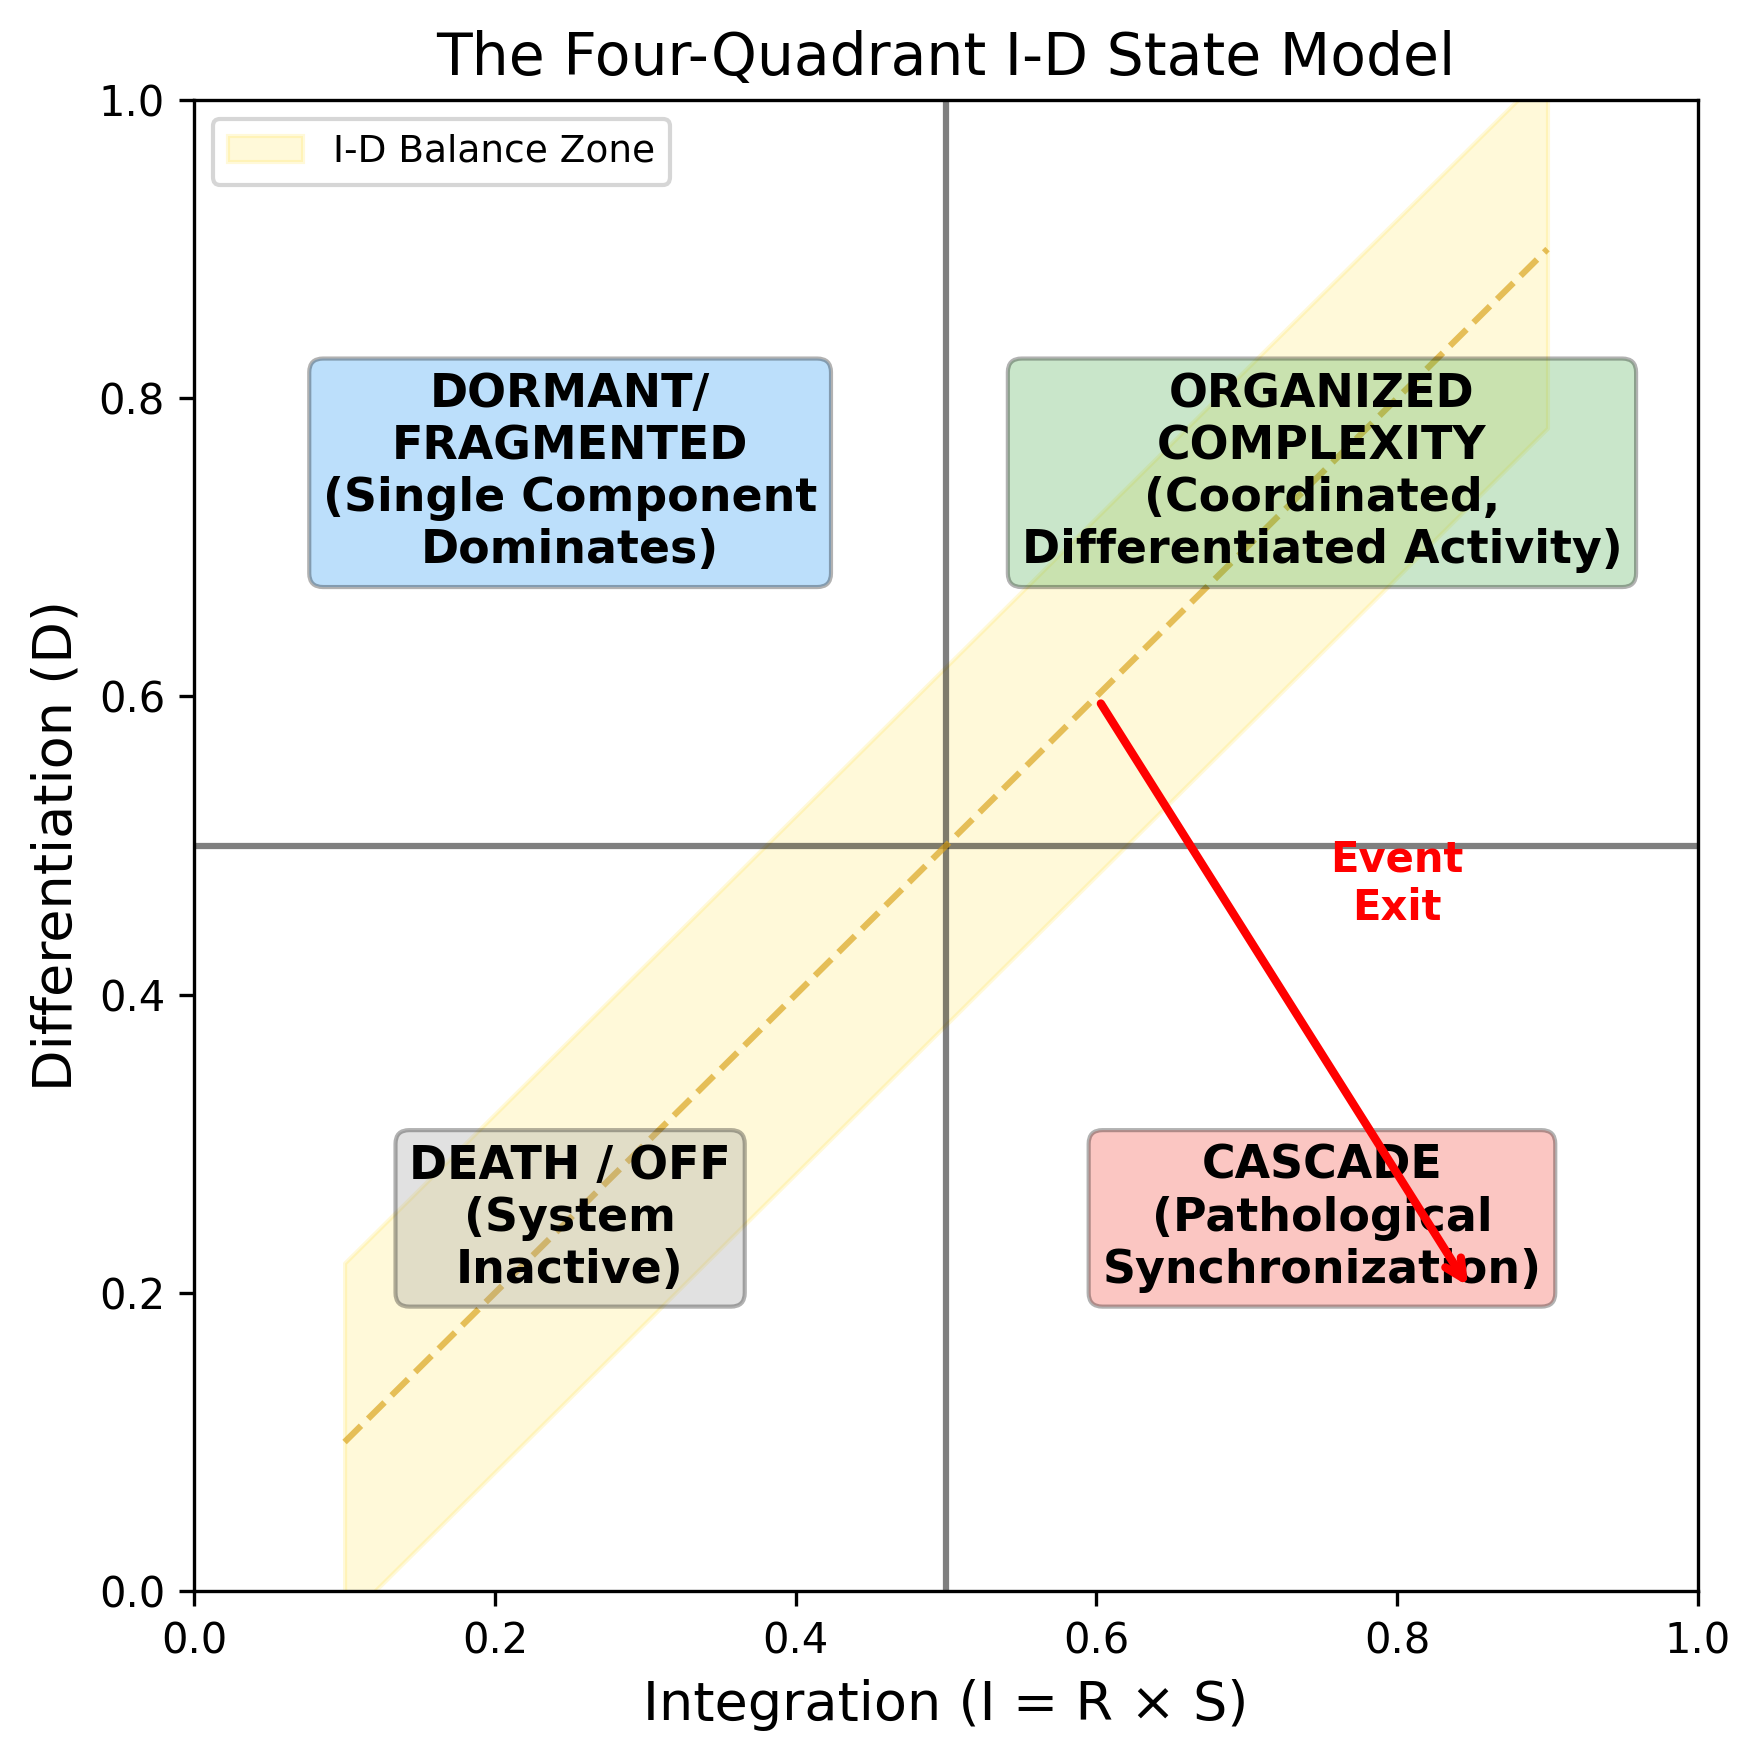
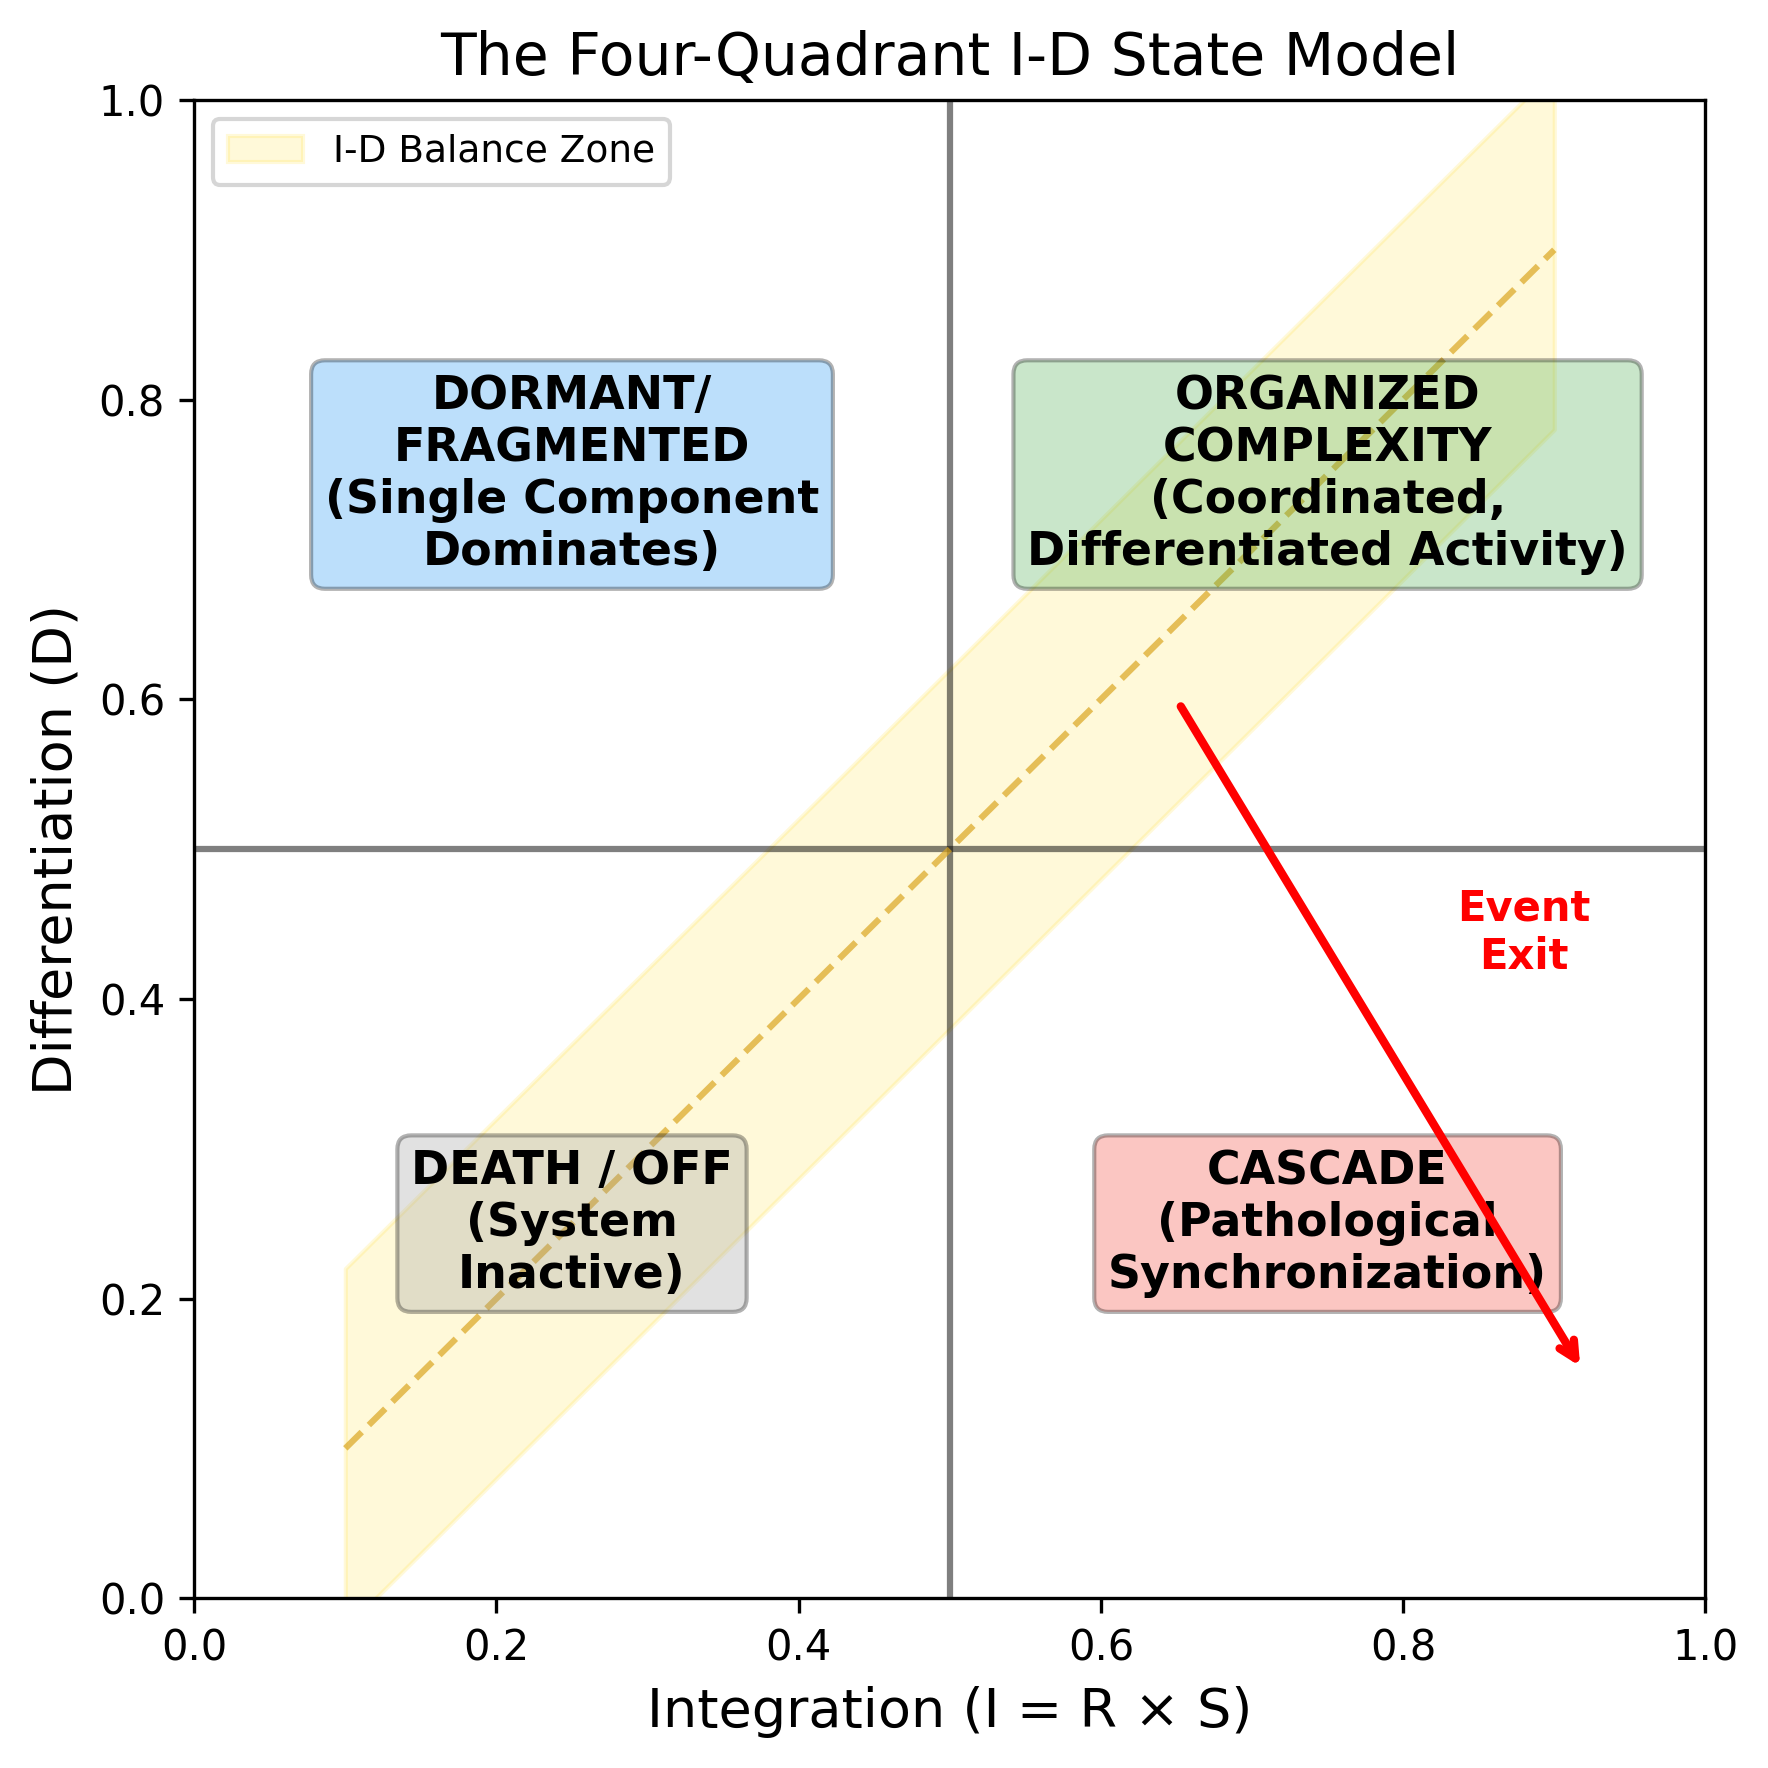
Fix table overflow, figure overlap, remove zip, set date format
- Tables I, II, VI, VII: table* with [!htbp] (span both columns, inline)
- Tables III, IV, V: table with [!htbp] (single column, inline)
- Fig 1: shift Event Exit arrow/label right to clear CASCADE text
- Remove zip code from affiliation
- Date: April 2026 (no parenthesized \today)

diff --git a/det-chaos-v2.tex b/det-chaos-v2.tex
@@ -11,8 +11,8 @@
 \author{Nathan M. Thornhill}
 \email{research@nathanthornhill.com}
 \homepage{https://nathanthornhill.com}
-\affiliation{Independent Researcher, Fort Wayne, Indiana 46802, USA}
-\date{\today}
+\affiliation{Independent Researcher, Fort Wayne, Indiana, USA}
+\date{April 2026}
 
 \begin{abstract}
 Complex systems across disparate substrates share a common failure mode: the breakdown of balance between integration and differentiation. This paper introduces the Dynamic Existence Threshold (DET), a framework in which system state is characterized by two measurable quantities---integration ($I$), capturing coordinated multi-component coupling, and differentiation ($D$), capturing divergence from uniformity. The $I$--$D$ plane admits four theoretical states---dormant/fragmented (low $I$, high $D$), organized complexity (high $I$, high $D$), pathological cascade (high $I$, low $D$), and system death (low $I$, low $D$)---of which the present proxy metrics access primarily the dormant-to-cascade axis. Healthy baseline function corresponds to moderate values of both $I$ and $D$ at the center of this axis. The DET predicts that critical events correspond to exits from the $I$--$D$ balance zone and that approach to such exits produces measurable early warning signals. These predictions are tested across three domains---financial markets (6,785 trading days, 26 cascade events), space weather (9,802 days, 51 storm days), and human EEG (50 subjects, 57,212 epochs, Wake vs.\ N3 deep sleep)---using a five-layer measurement architecture with zero-parameter tuning between domains. Five tests confirm the framework: (1) events cluster at $I$--$D$ extremes; (2) events exit the balance zone faster than normal state changes ($p = 0.0001$); (3) rising variance of $|I - D|$ provides early warning 5--30 days before financial events and 5--10 days before space weather events (2.0$\times$ elevation, $p < 0.001$); (4) exit velocity discriminates events from normal with area under the curve (AUC) 0.692--0.843; and (5) in EEG, simple summation anti-predicts brain state (AUC 0.416) while the coupling metric $R \times S$ achieves AUC 0.909 (95\% CI [0.904, 0.913]), demonstrating that the framework captures multi-scale coordination rather than mere magnitude.
@@ -32,7 +32,7 @@ The present work synthesizes these threads. IIT's $\Phi$ remains intractable for
 
 The central hypothesis is straightforward. Integration ($I$) measures the degree of coordinated coupling among system components. Differentiation ($D$) measures the degree to which the system's activity profile diverges from uniformity. These two quantities define a phase space with four canonical states (Fig.~\ref{fig:quadrant}):
 
-\begin{table}[!htbp]
+\begin{table*}[!htbp]
 \caption{Four-state model of the $I$--$D$ phase space.}
 \begin{ruledtabular}
 \begin{tabular}{llll}
@@ -43,7 +43,7 @@ Cascade/seizure/crash & High & Low & Pathological synchronization \\
 Death/off & Low & Low & System inactive \\
 \end{tabular}
 \end{ruledtabular}
-\end{table}
+\end{table*}
 
 The four states represent a theoretical taxonomy of the $I$--$D$ plane. Because the chosen proxy metrics are entropy-coupled (Section~3.6.4), empirical observations are largely constrained to the CASCADE--RECOVERY axis (high-$I$/low-$D$ to low-$I$/high-$D$). The Organized complexity and Death/off quadrants would require entropy-decoupled metrics---such as network-topology measures or formal partial information decomposition---to access reliably. The taxonomy remains useful as a conceptual map even when the accessible region is a subset of the full plane.
 
@@ -66,7 +66,7 @@ This paper tests five predictions derived from the DET hypothesis across three d
 
 To enable cross-domain comparison without parameter tuning, each domain is decomposed into five measurement layers representing distinct scales or modalities of system activity. The five-layer decomposition follows a principle of hierarchical coverage: layers span from the most local or fundamental process ($L_0$) to the most global or emergent indicator ($L_4$). Table~\ref{tab:layers} specifies the mapping.
 
-\begin{table}[!htbp]
+\begin{table*}[!htbp]
 \caption{\label{tab:layers}Five-layer architecture across domains.}
 \begin{ruledtabular}
 \begin{tabular}{llll}
@@ -78,7 +78,7 @@ $L_3$ & Beta (13--30 Hz) & Planetary K-index (Kp) & VIX implied volatility \\
 $L_4$ & Gamma (30--45 Hz) & Auroral Electrojet (AE) index & Flight-to-safety flows \\
 \end{tabular}
 \end{ruledtabular}
-\end{table}
+\end{table*}
 
 The EEG layers correspond to standard clinical frequency bands~\cite{berry2017,oppenheim1997}. Gamma power was computed with awareness of potential electromyographic (EMG) contamination artifacts at frequencies above 30~Hz~\cite{muthukumaraswamy2013}; however, the framework's reliance on relative coupling rather than absolute power mitigates this concern. Space weather layers span the sun--magnetosphere coupling chain from solar surface (F10.7) through interplanetary medium (solar wind dynamic pressure) to magnetospheric response (Dst, Kp, AE), using NASA OMNI2 data~\cite{papitashvili2020}. Financial layers span from individual equity stress through sector-level coherence to market-wide measures of volatility and risk appetite~\cite{forbes2002}. \textbf{$L_4$ (flight-to-safety)} is the mean $z$-score of safe-haven assets (Treasury bonds, gold, US dollar), following the same $z$-score protocol used for all other layers across all domains. An earlier formulation used a conjunction gate conditioning haven activation on concurrent equity stress; ablation testing (Section~\ref{sec:l4ablation}) demonstrated that this additional logic did not improve classification performance (AUC 0.870 without $L_4$ vs.\ 0.868 with the conjunction gate), so the simpler formulation is used here to maintain consistency with the zero-tuning design.
 
@@ -379,7 +379,7 @@ Entropy coupling does not, however, invalidate the empirical contributions. Diff
 
 To address the concern that all results may reflect in-sample overfitting, a strict temporal split was applied to the financial and space weather domains. For financial markets, the first 3,964 days (pre-2015) served as the training set and the remaining 2,821 days (2015--2024) as the held-out test set. For space weather, the split was at 2010. All $z$-score normalization parameters (means, standard deviations) were learned exclusively from the training set and applied unchanged to the test set.
 
-\begin{table}[!htbp]
+\begin{table*}[!htbp]
 \caption{\label{tab:oos}Out-of-sample validation: AUC on held-out test set ($z$-score parameters from training set only).}
 \begin{ruledtabular}
 \begin{tabular}{lllll}
@@ -394,7 +394,7 @@ Space ($R \times S$) & $|I{-}D|$ & 0.568 & 0.656 & $+$0.088 \\
 Space (Sum) & $|I{-}D|$ & 0.791 & 0.838 & $+$0.047 \\
 \end{tabular}
 \end{ruledtabular}
-\end{table}
+\end{table*}
 
 All metrics retain discriminative power on the held-out period, with exit velocity AUC dropping by at most 0.09 (space Sum) and $|I{-}D|$ AUC actually \emph{improving} on the test set in all four cases. The improvement on $|I{-}D|$ likely reflects that the post-split periods include higher-volatility regimes (2020 COVID crash, 2015--2016 market turbulence) where the balance metric separates events more cleanly. These results confirm that the DET framework does not overfit to the training period and generalizes to unseen data without recalibration.
 
@@ -402,7 +402,7 @@ All metrics retain discriminative power on the held-out period, with exit veloci
 
 To assess whether the DET framework depends critically on the five-layer architecture, we systematically varied the number of layers $N \in \{3, 4, 5, 6, 8\}$ across all three domains. For $N < 5$, adjacent layers were merged by averaging their $z$-scored activations. For $N > 5$, existing layers were split into finer components from the same raw data: delta sub-bands in EEG, solar wind velocity separation in space weather, and VIX momentum or haven disaggregation in financial markets. All downstream computations ($R$, $S$, $D$, $I$, balance zone definitions) used identical formulas with only $N$ adjusted.
 
-\begin{table}[!htbp]
+\begin{table*}[!htbp]
 \caption{\label{tab:layers_sensitivity}Layer sensitivity: $I$ ($R \times S$) AUC for event/state discrimination across layer counts. EEG values from the five-subject pilot; the 50-subject scale-up yields AUC 0.909 at $N=5$ (Table~IV).}
 \begin{ruledtabular}
 \begin{tabular}{lllll}
@@ -414,7 +414,7 @@ $N$ & Financial & Space & EEG (Wake vs.\ N3) & EEG Sum \\
 8 & 0.706 & 0.844 & \textbf{0.921} & 0.287 \\
 \end{tabular}
 \end{ruledtabular}
-\end{table}
+\end{table*}
 
 Three findings emerge (Fig.~\ref{fig:layer_sensitivity}). First, the framework is robust to layer count: adjacent values ($N = 4$ and $N = 6$) produce AUC within 10\% of the $N = 5$ baseline across all domains, with space weather and EEG actually improving at $N = 6$. Second, performance degrades smoothly at $N = 3$ (insufficient hierarchical depth for meaningful integration), consistent with the theoretical requirement that integration needs multiple engaged layers. Notably, $N = 3$ produces the highest balance zone ratio in EEG (46$\times$) yet the worst AUC (0.669): with only three layers, the balance zone becomes so narrow that nearly all N3 epochs are excluded, inflating the ratio while providing insufficient resolution for robust classification. Third, $N = 8$ offers no improvement over $N = 6$, suggesting diminishing returns from over-decomposition.
 

diff --git a/compute/generate_paper_figures.py b/compute/generate_paper_figures.py
@@ -114,10 +114,10 @@ def fig1_quadrant_model():
                      label='I-D Balance Zone')
     ax.plot(x, x, '--', color='goldenrod', linewidth=1.5, alpha=0.7)
     
-    # Arrow: cascade exit
-    ax.annotate('', xy=(0.85, 0.2), xytext=(0.6, 0.6),
+    # Arrow: cascade exit (shifted right to avoid overlapping CASCADE label)
+    ax.annotate('', xy=(0.92, 0.15), xytext=(0.65, 0.6),
                 arrowprops=dict(arrowstyle='->', color='red', lw=2))
-    ax.text(0.80, 0.45, 'Event\nExit', fontsize=10, color='red', ha='center', fontweight='bold')
+    ax.text(0.88, 0.42, 'Event\nExit', fontsize=10, color='red', ha='center', fontweight='bold')
     
     ax.set_xlabel('Integration (I = R × S)', fontsize=13)
     ax.set_ylabel('Differentiation (D)', fontsize=13)
@@ -295,7 +295,7 @@ def fig4_eeg_stages():
         # Add ratio annotations
         for i, (w, n) in enumerate(zip(wake_pcts, n3_pcts)):
             if n > 0:
-                ax.text(i, max(w, n) + 3, f'{w/n:.1f}×', ha='center', fontsize=10, fontweight='bold', color='darkgreen')
+                ax.text(i, max(w, n) + 3, f'{w/n:.0f}×', ha='center', fontsize=10, fontweight='bold', color='darkgreen')
             else:
                 ax.text(i, w + 3, '∞', ha='center', fontsize=12, fontweight='bold', color='darkgreen')
     
